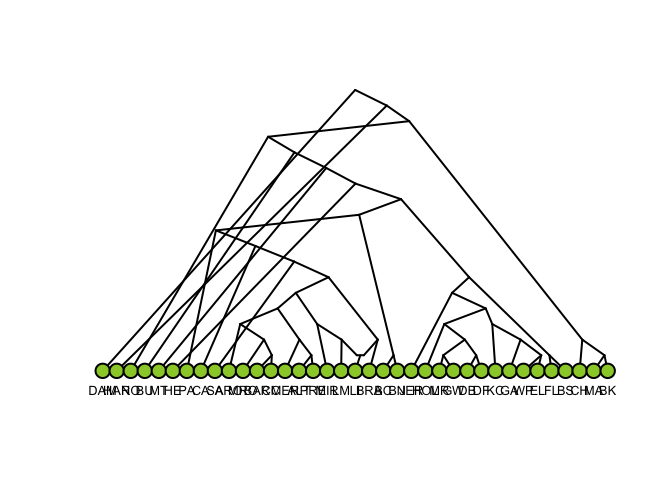
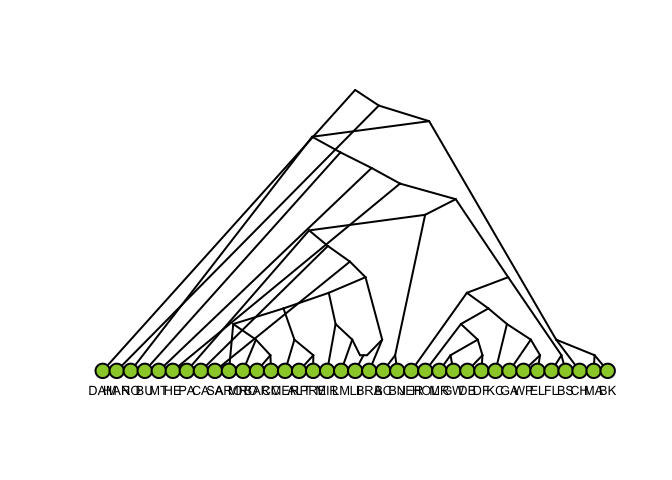
fixed dependencies

Changed region(s): [[0.1875, 0.1875, 0.9062, 0.7812], [0.6562, 0.5, 0.6875, 0.5625]]

diff --git a/README.md b/README.md
@@ -18,7 +18,9 @@ Parsing a qpGraph file:
 test_graph <- readr::read_file("data-raw/Basic_OngeEA_wArch.graph")
 g <- graphparse::read_qpgraph(test_graph)
 plot(g)
-#> fminbnd:  Exiting: No possible improvement of cost function.
+#> fminbnd:  Exiting: Maximum number of function evaluations has been exceeded
+#>          - increase MaxFunEvals option.
+#>          Current function value: 4498.90111965144
 ```
 
 <img src="man/figures/README-pqgraph-1.png" width="100%" />
@@ -36,30 +38,10 @@ Parsing a dot file:
 ``` r
 test_graph <- readr::read_file("data-raw/Basic_OngeEA_wArch.dot")
 g <- graphparse::read_dot(test_graph)
-#> # A tibble: 2 x 3
-#>   from        to    label    
-#>   <chr>       <chr> <chr>    
-#> 1 DenisovaAnc P2    "\"3%\"" 
-#> 2 P           P2    "\"97%\""
-#> # A tibble: 2 x 3
-#>   from   to    label    
-#>   <chr>  <chr> <chr>    
-#> 1 NeaAnc K2    "\"1%\"" 
-#> 2 K      K2    "\"99%\""
-#> # A tibble: 2 x 3
-#>   from   to            label    
-#>   <chr>  <chr>         <chr>    
-#> 1 NeaAnc AdmixedNonAfr "\"3%\"" 
-#> 2 AfrAnc AdmixedNonAfr "\"97%\""
-#> # A tibble: 2 x 3
-#>   from      to             label    
-#>   <chr>     <chr>          <chr>    
-#> 1 Arch      DenisovaAncAnc "\"49%\""
-#> 2 SuperArch DenisovaAncAnc "\"51%\""
 plot(g)
 #> fminbnd:  Exiting: Maximum number of function evaluations has been exceeded
 #>          - increase MaxFunEvals option.
-#>          Current function value: 9400.95285288696
+#>          Current function value: 9425.28944643173
 ```
 
 <img src="man/figures/README-dot-1.png" width="100%" />
@@ -88,15 +70,10 @@ attr(g, "admixture_proportions")
 ``` r
 test_graph <- readr::read_file("data-raw/BosGraph.dot")
 g <- graphparse::read_dot(test_graph)
-#> # A tibble: 2 x 3
-#>   from  to    label    
-#>   <chr> <chr> <chr>    
-#> 1 H2    E2    "\"15%\""
-#> 2 D2    E2    "\"85%\""
 plot(g)
 #> fminbnd:  Exiting: Maximum number of function evaluations has been exceeded
 #>          - increase MaxFunEvals option.
-#>          Current function value: 7034.41173643302
+#>          Current function value: 7212.04015629442
 ```
 
 <img src="man/figures/README-unnamed-chunk-4-1.png" width="100%" />
